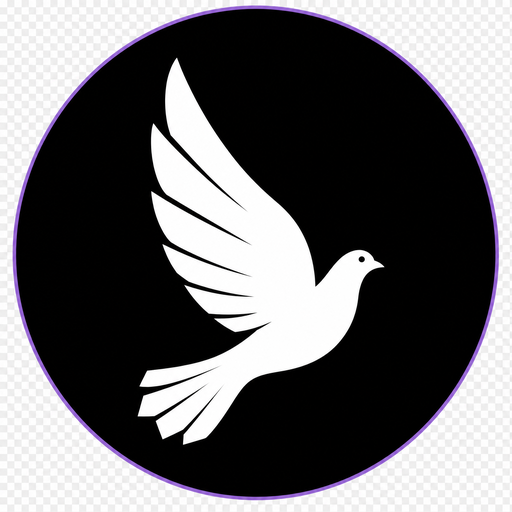
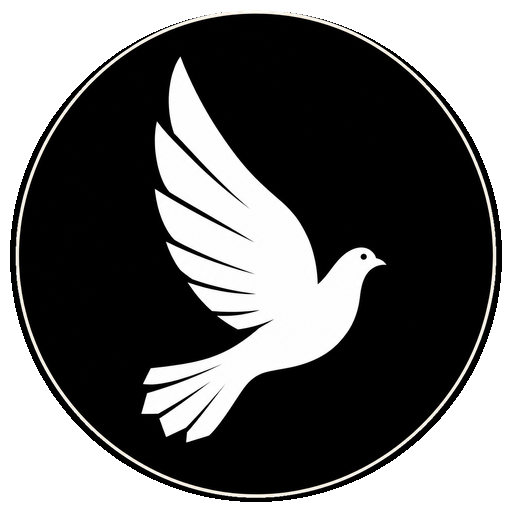
Refinar icono circular sin fondo cuadrado

diff --git a/index.html b/index.html
@@ -81,7 +81,7 @@
             filter: drop-shadow(0 0 10px var(--accent-glow));
         }
         .brand-nowarfi { display: inline-flex; align-items: center; gap: 10px; }
-        .brand-nowarfi-mark { width: 30px; height: 30px; object-fit: contain; filter: drop-shadow(0 0 9px rgba(139,92,246,.35)); }
+        .brand-nowarfi-mark { width: 30px; height: 30px; border-radius: 50%; background: transparent; object-fit: contain; filter: drop-shadow(0 0 7px rgba(255,255,255,.16)); }
 
         .nav-links li {
             list-style: none; margin-bottom: 6px; cursor: pointer; padding: 10px 14px; border-radius: 8px;
@@ -590,7 +590,7 @@
         body.mode-youtoo .logo { font-size: 1.5rem; padding: 0 10px; }
         body.mode-youtoo .brand-nowarfi { display: none; }
         .brand-youtoo { display: none; align-items: center; gap: 9px; }
-        .brand-youtoo img { width: 38px; height: 38px; object-fit: contain; filter: drop-shadow(0 0 10px rgba(94,234,212,.22)); }
+        .brand-youtoo img { width: 38px; height: 38px; display: block; border-radius: 50%; background: transparent; object-fit: contain; filter: drop-shadow(0 0 7px rgba(255,255,255,.16)); }
         body.mode-youtoo .brand-youtoo { display: flex; }
         body.mode-youtoo .nav-links li { border-radius: 11px; padding: 11px 13px; }
         body.mode-youtoo .nav-links li.active { background: linear-gradient(90deg, rgba(167,139,250,.2), rgba(94,234,212,.05)); }

diff --git a/sw.js b/sw.js
@@ -1,4 +1,4 @@
-const CACHE_NAME = 'nowarfy-shell-v3';
+const CACHE_NAME = 'nowarfy-shell-v4';
 const APP_SHELL = [
   '/',
   '/index.html',
